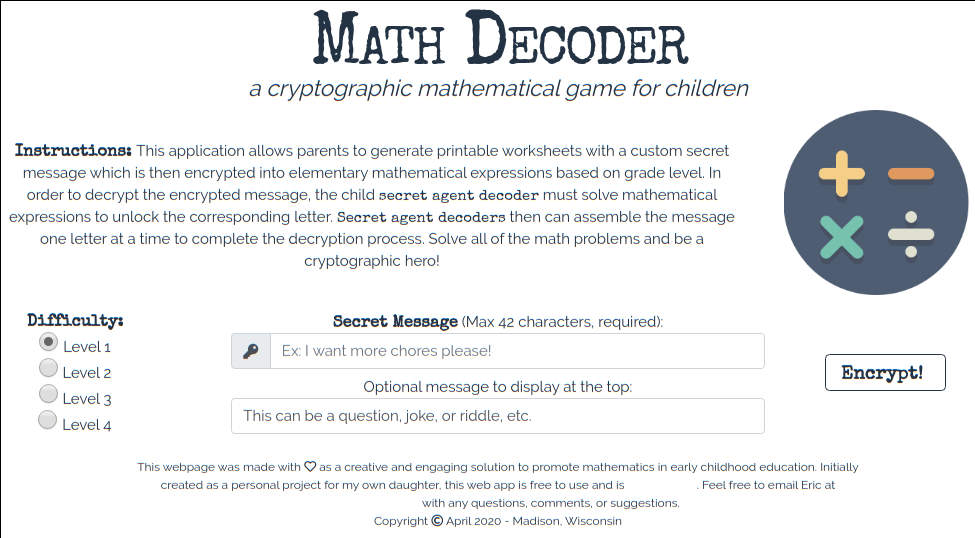
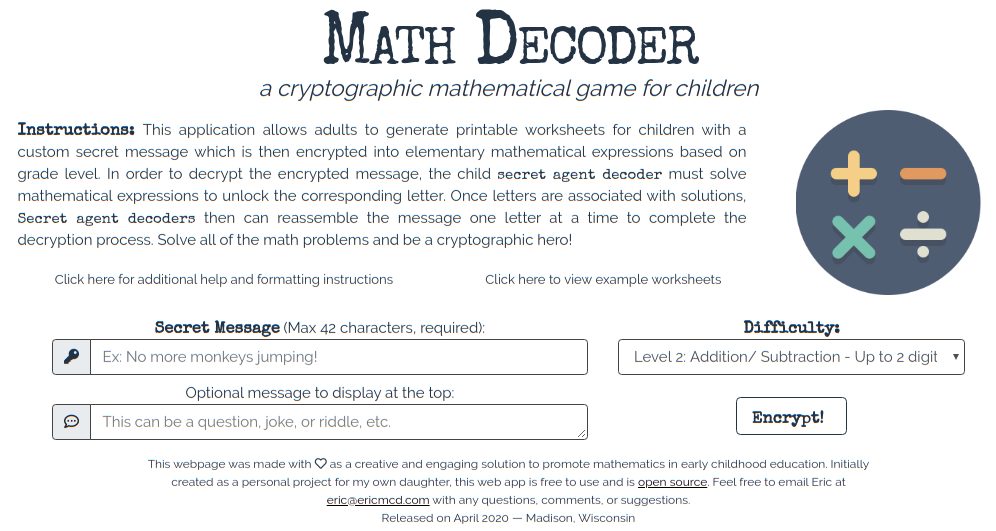
Update README with revised UI input and docs

diff --git a/README.md b/README.md
@@ -4,7 +4,7 @@
 This game is hosted live for free and can be found at [ericmcd.com/mathdecoder](https://www.ericmcd.com/mathdecoder/)
 
 ![Sample image of Math Decoder's Main Menu](https://www.ericmcd.com/mathdecoder/imgs/math-decoder-input.png)
-![Sample run Math Decoder after taking in input](https://www.ericmcd.com/mathdecoder/imgs/math-decoder-output.png)
+![Sample run Math Decoder after taking in input](https://www.ericmcd.com/mathdecoder/imgs/cheese.jpg)
 
 ### Purpose
 This web application was inspired from a page in a 1st grade mathematics workbook that provided supplementary problems for my daughter after school. In it, children were expected to match solved mathematical equations with their solutions. My inspiration was to go beyond and first make the child solve the expression. Second, they match the corresponding letter with a blank solution provided at the bottom, decoding the encrypted message at the bottom. Third, the web app would take any arbitrary input and generate a solution set with a unique key with no repeating solutions. Here, the Math Decoder was born.
@@ -15,21 +15,22 @@ My main priority when developing this web application was to build something tha
 ---
 
 ### Usage
-+ There are four difficulty levels to choose from. Select one of the radio buttons to proceed.
-+ Provide a message of no more than 42 characters in the `Secret Message` input field. This will be the encrypted message hidden at the bottom that the child must decrypt.
++ There are five difficulty levels to choose from. Select one of the radio buttons to proceed.
++ Provide a message of no more than 20 characters for difficulty one, or 42 characters for difficulties two through five in the `Secret Message` input field. This will be the encrypted message hidden at the bottom that the child must decrypt.
 + You may optionally enter a message in the `Optional Message` input field below. This is a prompt that would show at the top of the page, such as a question at the top if the decrypted message were to be the answer to the question. This is not required.
 + Press `Encrypt`, or press enter from any of the input fields. The application will generate the solution set and problems.
 
 ### Difficulty Level Descriptions
 | Level | Description |
 | --- | --- |
-| `Level 1` | Addition and Subtraction. Easy tier. (Single and double digit problem sets) |
-| `Level 2` | Addition and Subtraction. Difficult tier. (Single, double, and triple digit problem sets) |
-| `Level 3` | Multiplication and Division. Easy tier. (Single and double digit problem sets) |
-| `Level 4` | Multiplication and Division. Difficult tier. (Single, double, and triple digit problem sets) |
+| `Level 1` | Addition and Subtraction. Between 0 through 20. Intended for kindergarteners |
+| `Level 2` | Addition and Subtraction. Up to double-digit problem sets |
+| `Level 3` | Addition and Subtraction. Up to triple-digit problem sets |
+| `Level 4` | Multiplication and Division. Up to double-digit problem sets |
+| `Level 5` | Multiplication and Division. Up to triple-digit problem sets |
 
-## Create Usable Worksheets
-The purpose of this application is to create printable worksheets. After the problems and solution set is generated and displayed to the window, print the page using your preferred printer. The web app uses a custom printer media stylesheet that will render the text for printers as well as it can, so no alterations are necessary.
+## The Ultimate Goal: Create Usable Worksheets
+The purpose of this application is to create printable worksheets. After the problems and solution set is generated and displayed to the window, print the page using your preferred printer. The web app uses a custom printer media stylesheet that will render the text for printers as well as it can, so no alterations are necessary. [Click here](https://www.ericmcd.com/mathdecoder/help/) for instructions on how to properly format and print your encrypted worksheet.
 
 #### License
 MIT. You are free to clone, fork, modify and use this application as you please.
